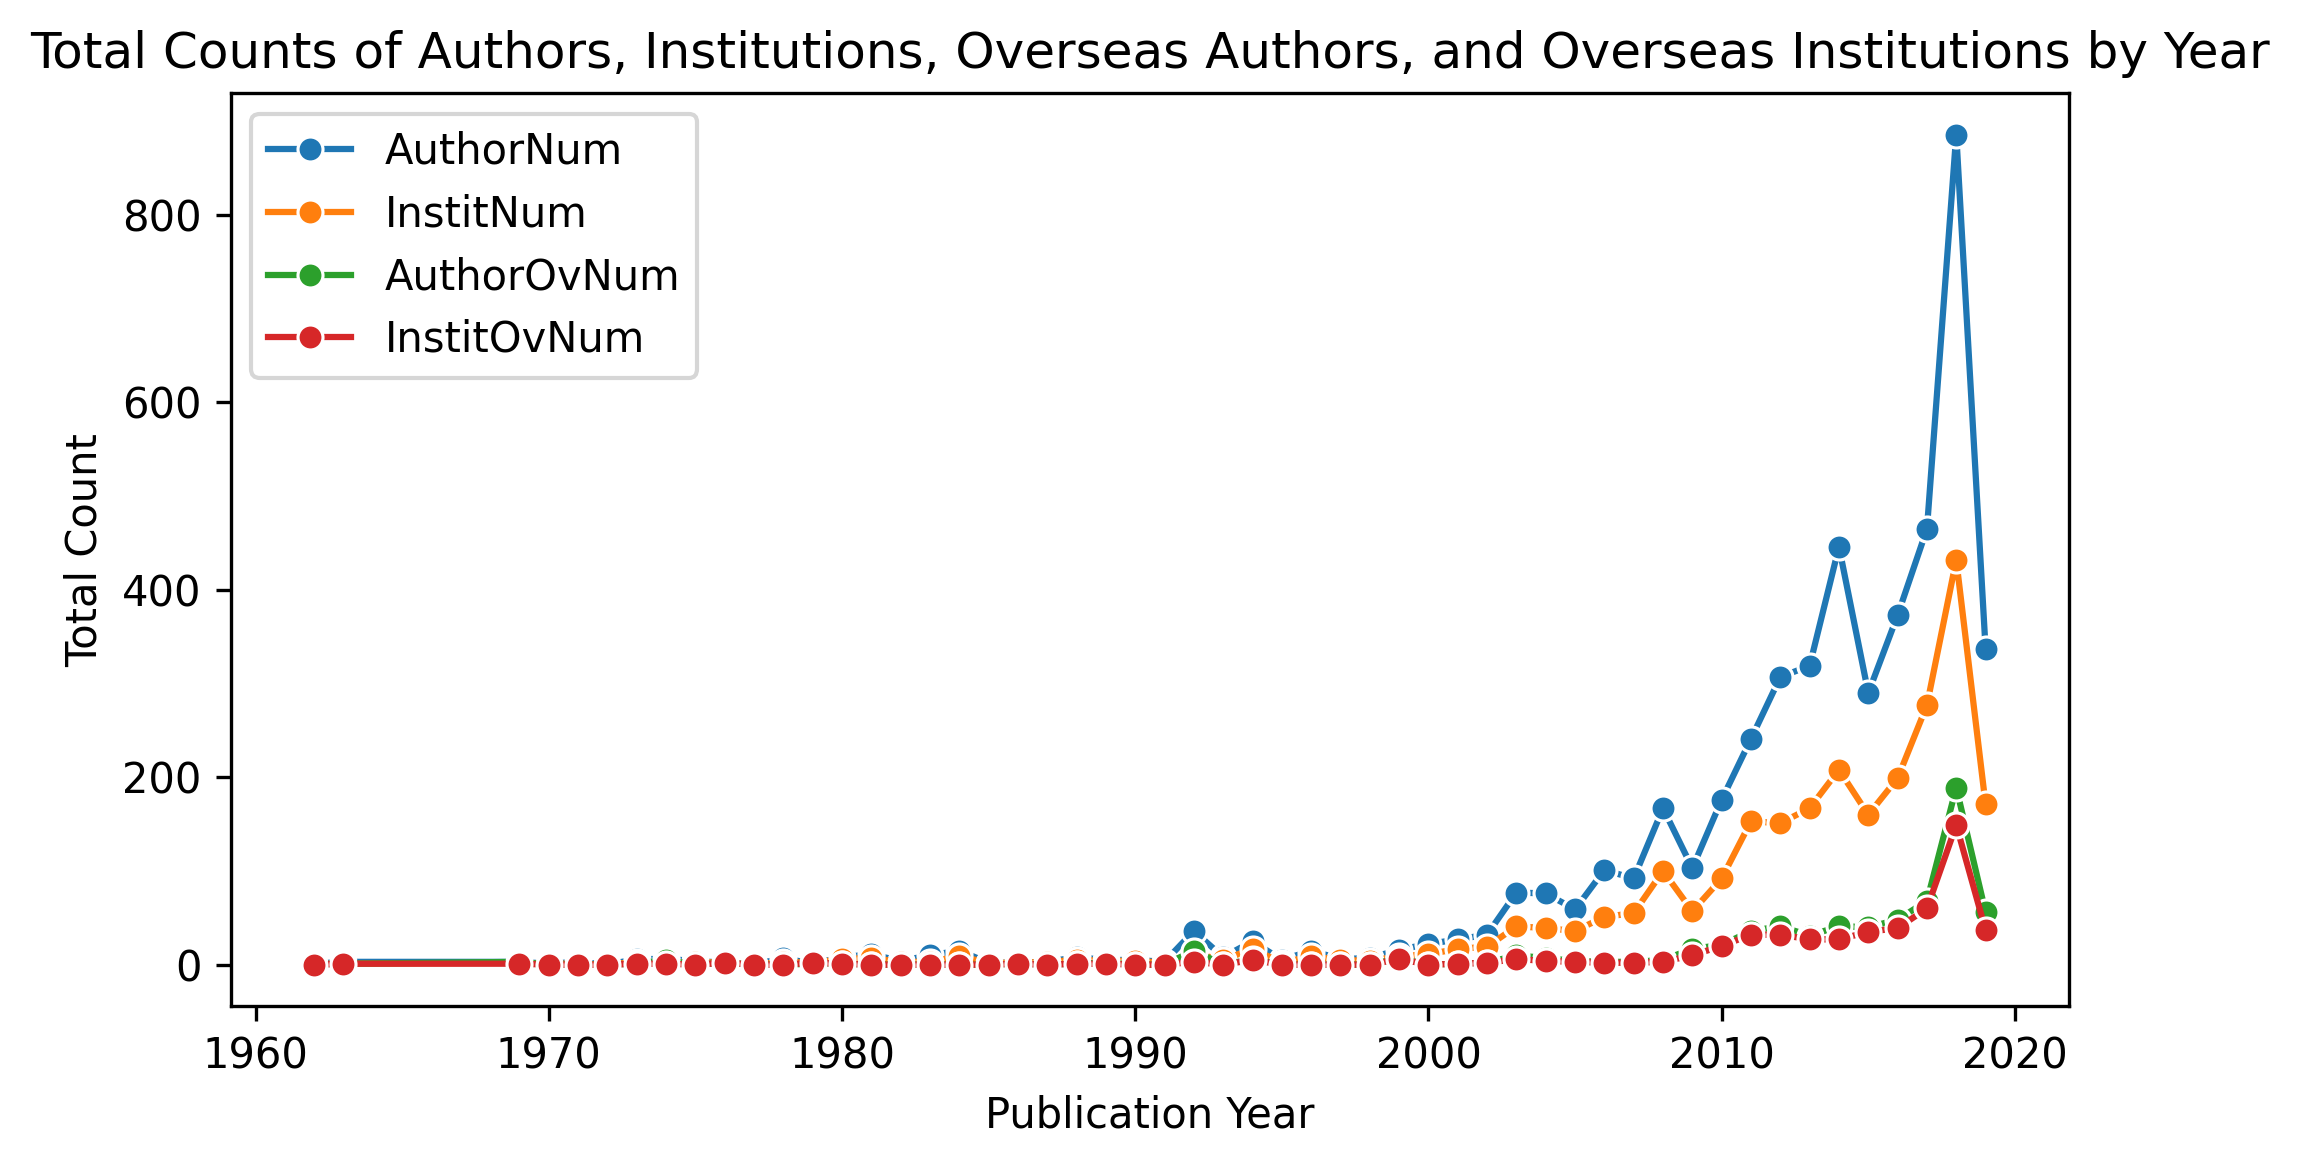
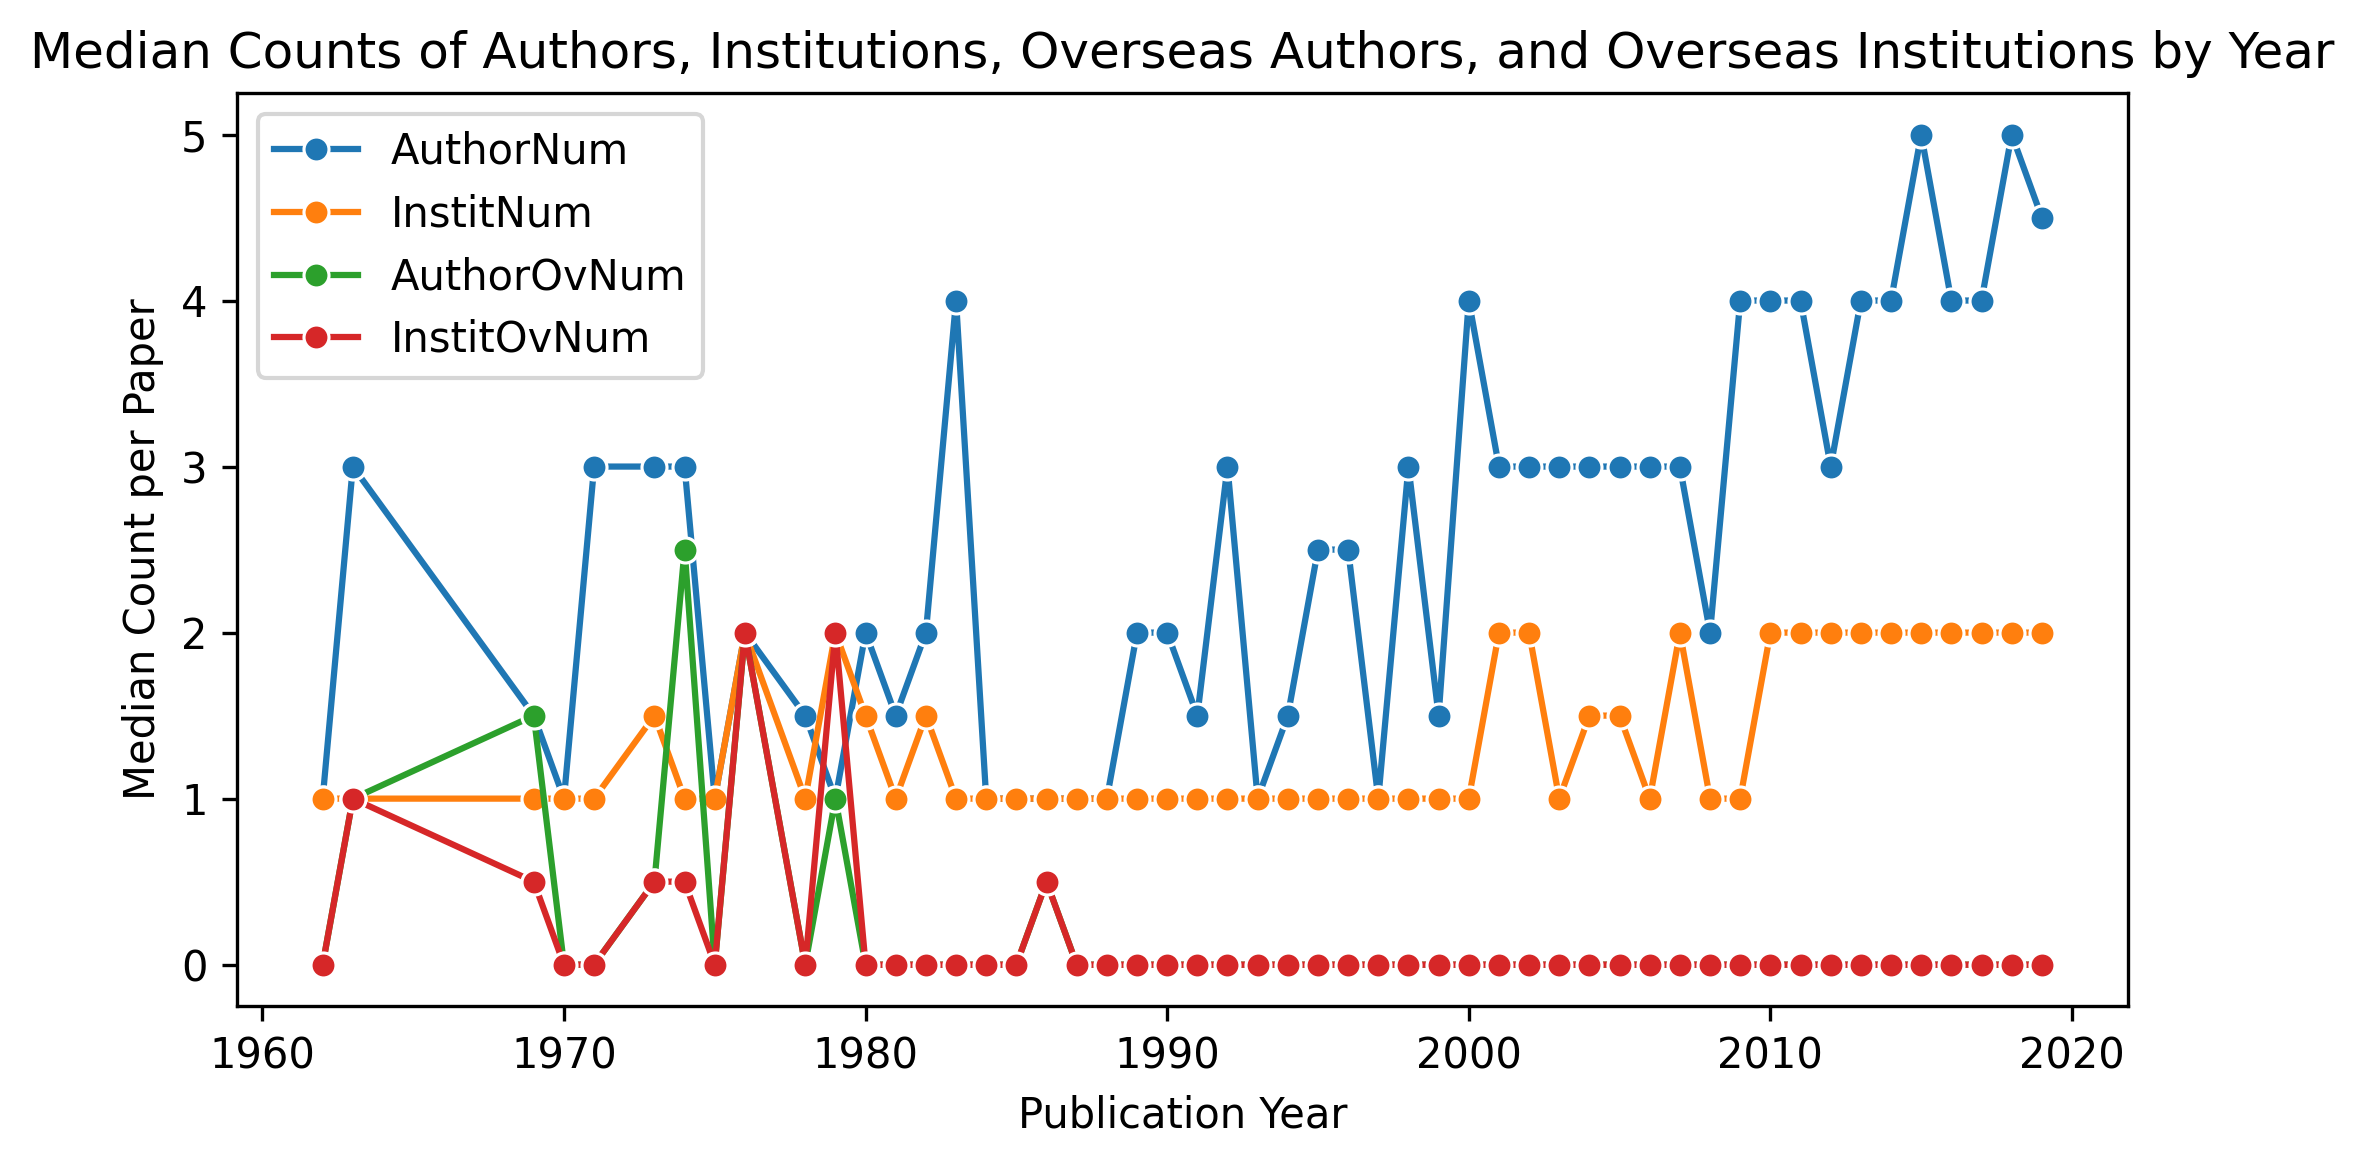
mean count y axis

diff --git a/app.py b/app.py
@@ -239,13 +239,13 @@ ax2.set_ylabel("CA Specialty")
 plt.tight_layout()
 st.pyplot(fig2)
 
-df_line = df.groupby('IDyear')[['AuthorNum', 'InstitNum', 'AuthorOvNum', 'InstitOvNum']].median().reset_index()
+df_line = df.groupby('IDyear')[['AuthorNum', 'InstitNum', 'AuthorOvNum', 'InstitOvNum']].mean().reset_index()
 fig3, ax3 = plt.subplots(figsize=(7,4))
 for col in ['AuthorNum', 'InstitNum', 'AuthorOvNum', 'InstitOvNum']:
     sns.lineplot(data=df_line, x='IDyear', y=col, marker='o', label=col, ax=ax3)
-ax3.set_title("Median Counts of Authors, Institutions, Overseas Authors, and Overseas Institutions by Year")
+ax3.set_title("Mean Counts of Authors, Institutions, Overseas Authors, and Overseas Institutions by Year")
 ax3.set_xlabel("Publication Year")
-ax3.set_ylabel("Median Count per Paper")
+ax3.set_ylabel("Mean Count per Paper")
 ax3.legend()
 plt.tight_layout()
 st.pyplot(fig3)
